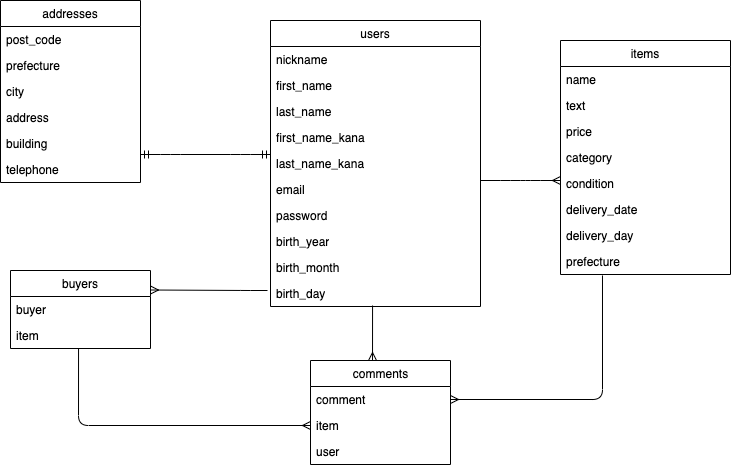
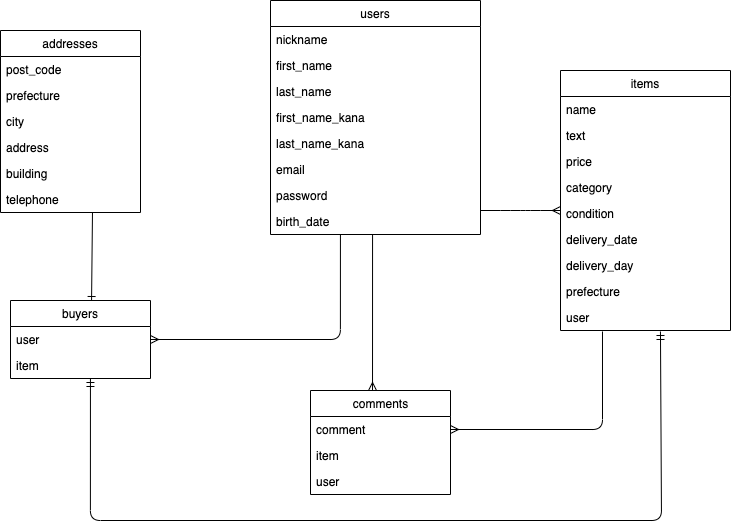
データベース設計の修正

diff --git a/README.md b/README.md
@@ -16,18 +16,16 @@
 has_many :buyers  
 has_many :items  
 has_many :comments  
-has_one :address  
 
 ## Buyersテーブル
 
 |Column|Type|Options|
 |------|----|-------|
-|buyer|string|null:false|
+|user   |references|null:false,foreign_key:true|
 |item   |references|null:false,foreign_key:true|
 
 ### Association
-has_many :comments  
-
+has_one :item
 
 ## Itemsテーブル
 |Column|Type|Options|
@@ -35,7 +33,7 @@ has_many :comments
 |name            |string|null:false|
 |text            |text  |null:false|
 |price           |integer|null:false|
-|category_id     |references|null:false,foreign_key:true|
+|category_id     |integer|null:false|
 |condition_id    |integer|null:false|
 |delivery_charge_id |integer|null:false|
 |delivery_day_id |integer|null:false|
@@ -45,7 +43,7 @@ has_many :comments
 
 ### Association
 belongs_to :user  
-belongs_to :item_image  
+belongs_to :buyer
 has_many :comments  
 
 
@@ -62,7 +60,7 @@ has_many :comments
 
 
 ### Association
-belongs_to :user
+belongs_to :buyer
 
 ## commentsテーブル
 
